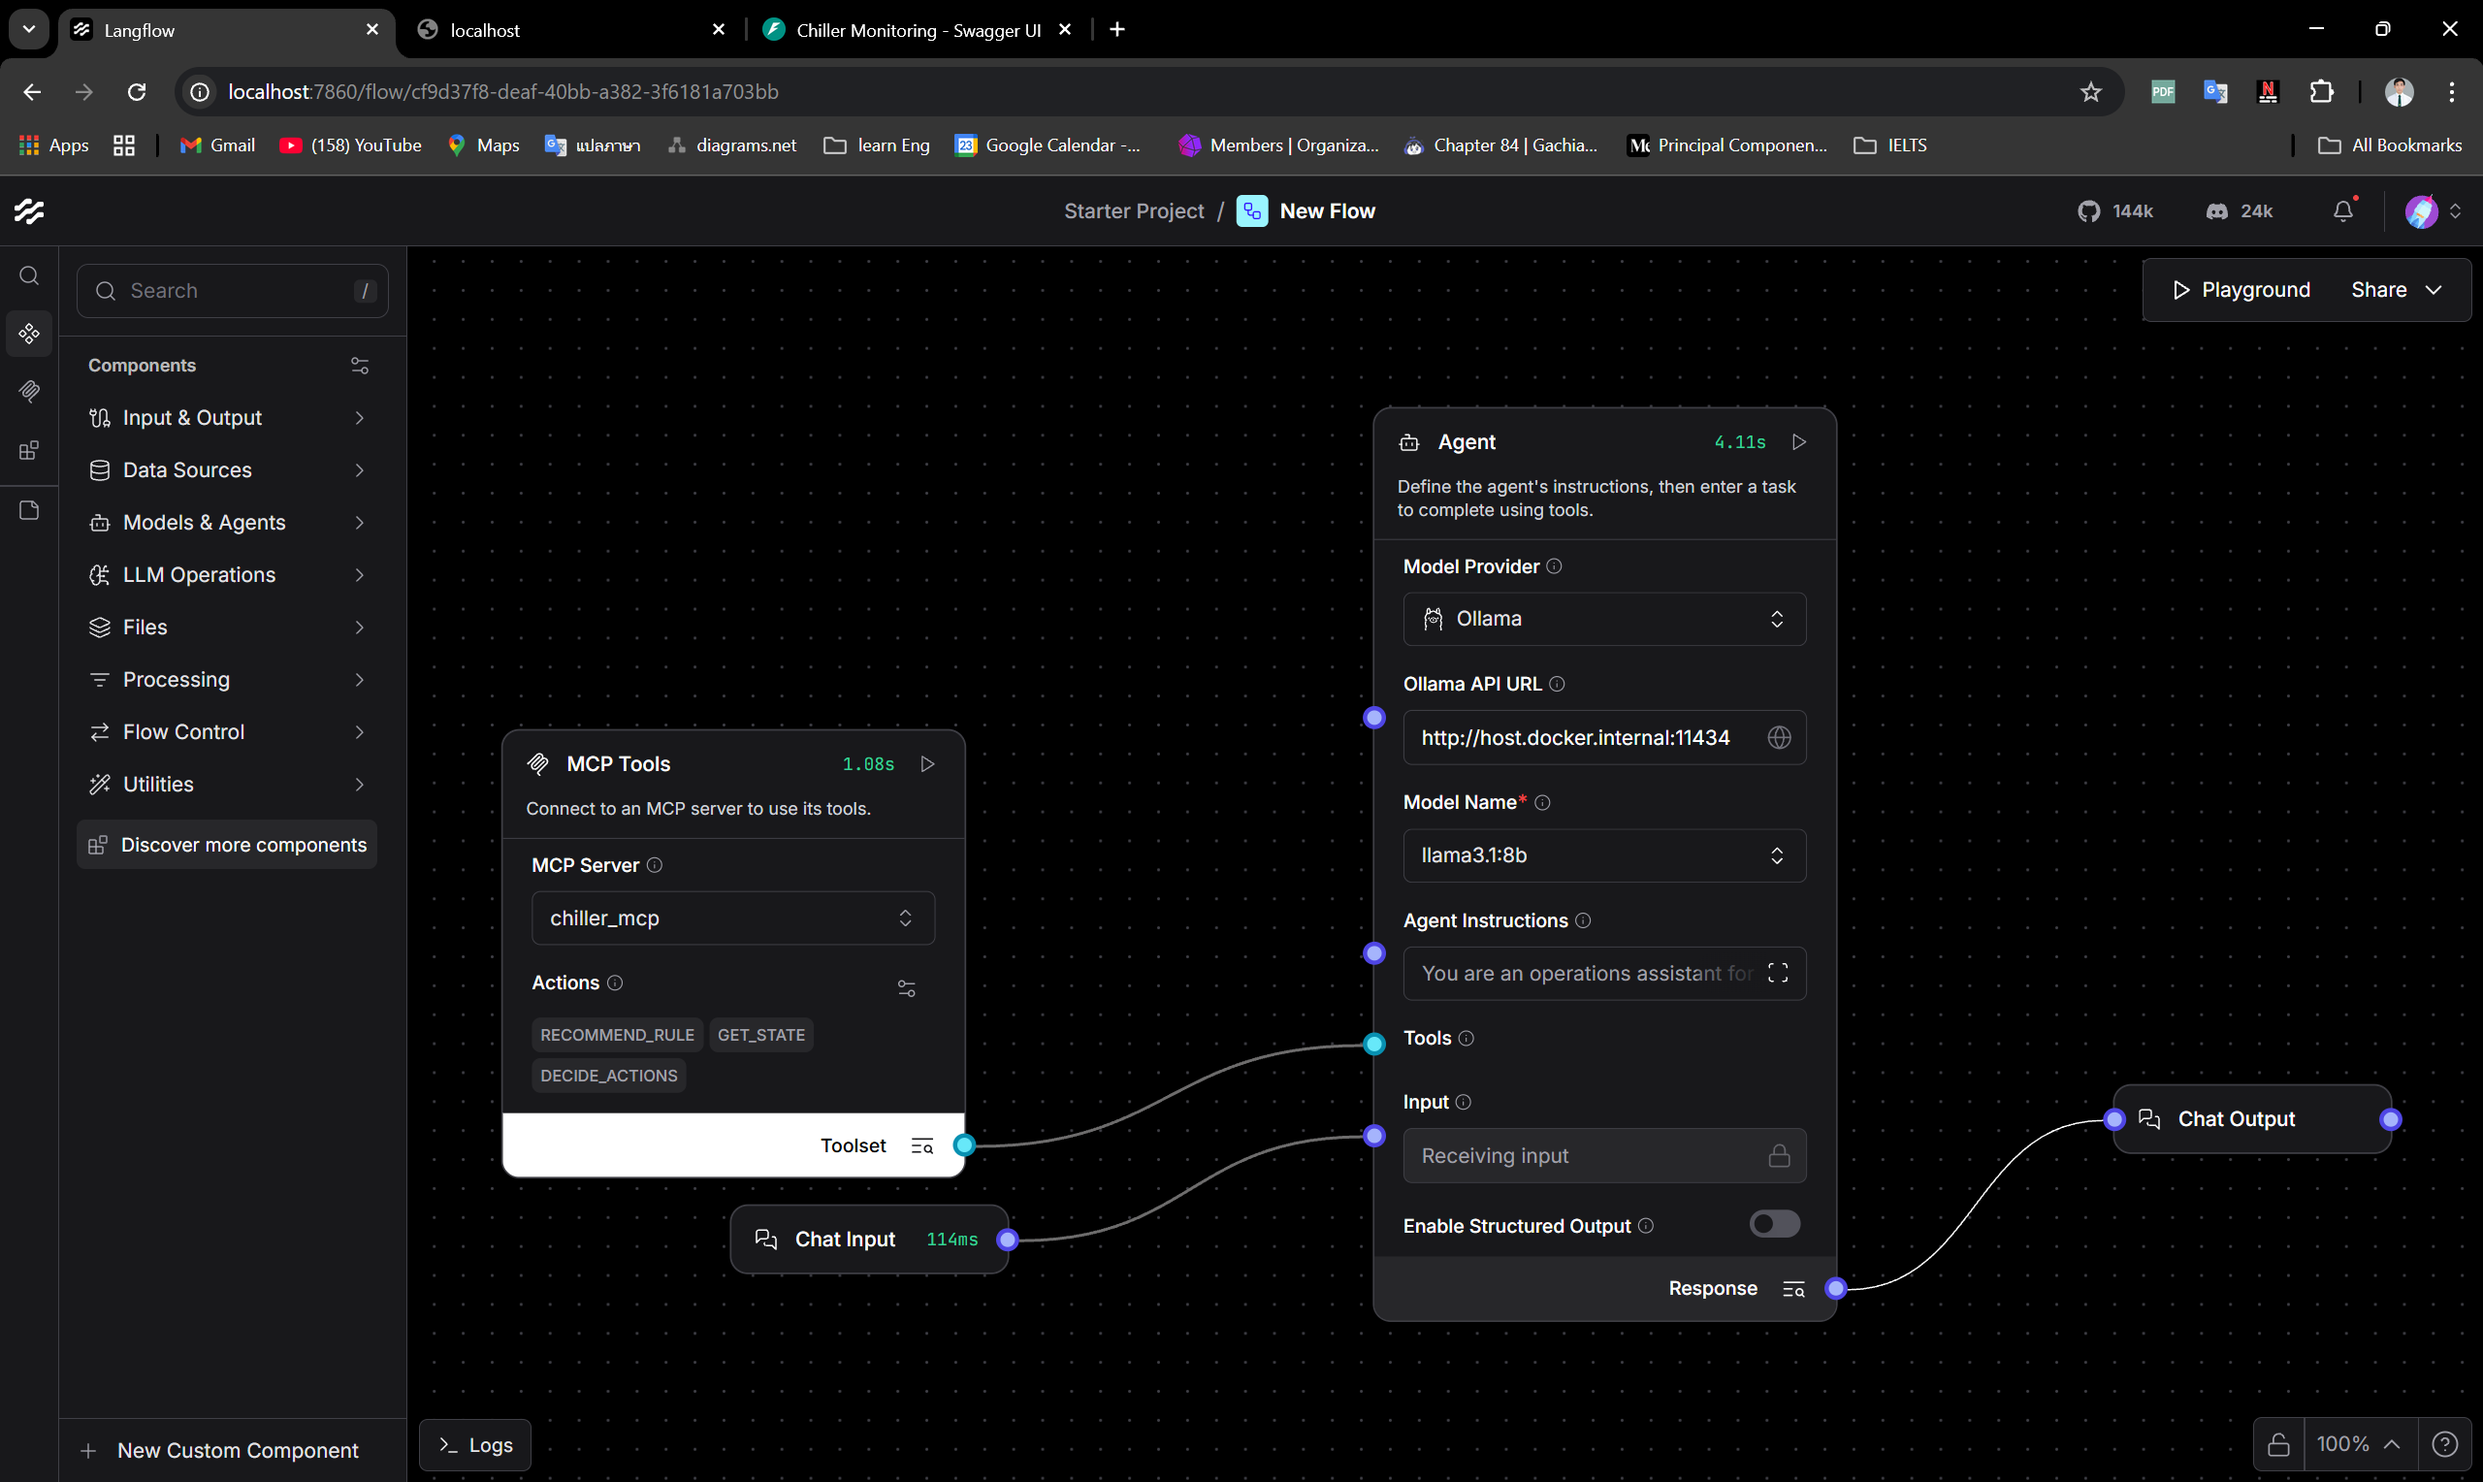
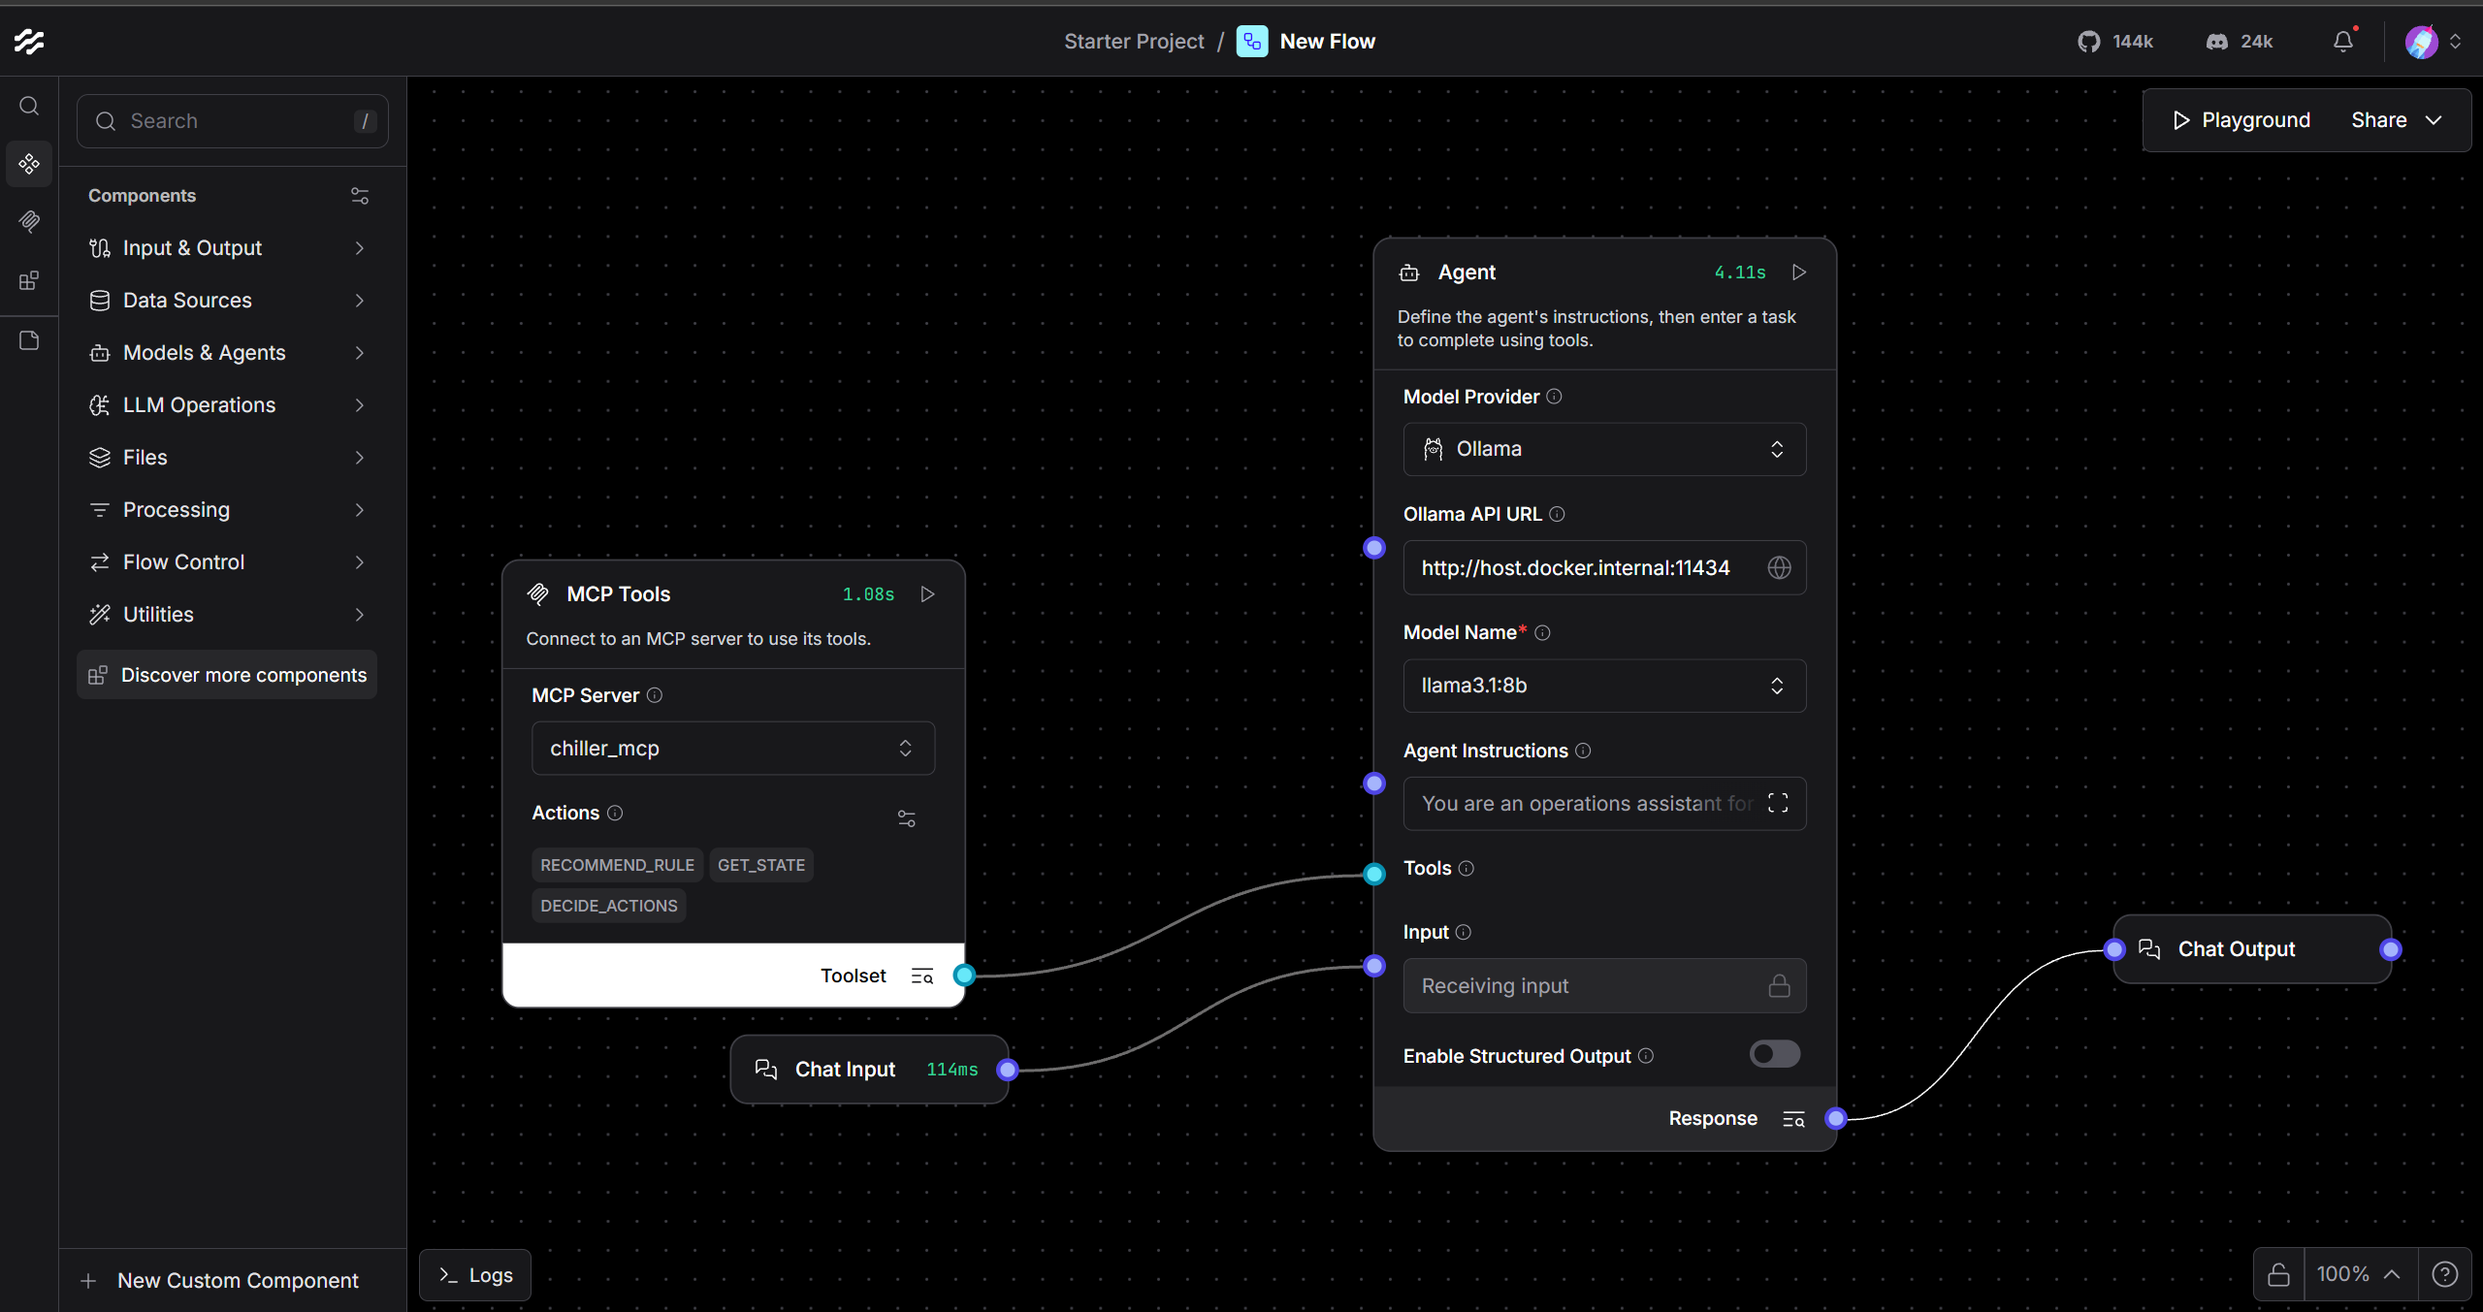
add all pic

diff --git a/readme.md b/readme.md
@@ -146,7 +146,7 @@ To support development without real plant data:
 ---
 
 ## Langflow + Docker + MCP Integration
-
+![Dashboard](pic/Langflow.png)
 ### What was done
 - Langflow runs via **Docker** as orchestration UI for LLM pipeline
 - Backend exposes MCP tools so Langflow calls the plant system as tools (not only text)
@@ -154,7 +154,7 @@ To support development without real plant data:
   - `Action: ON/OFF`
   - `Target: CH1 / TF4 ...`
   - `Reasoning` using returned metrics (e.g., thermoform_total_kw, chiller_on counts)
-
+![Dashboard](pic/chatbot.png)
 ### Why the MCP Proxy exists
 Some setups fail due to host header + streaming constraints. Proxy:
 - Forwards requests to MCP server
